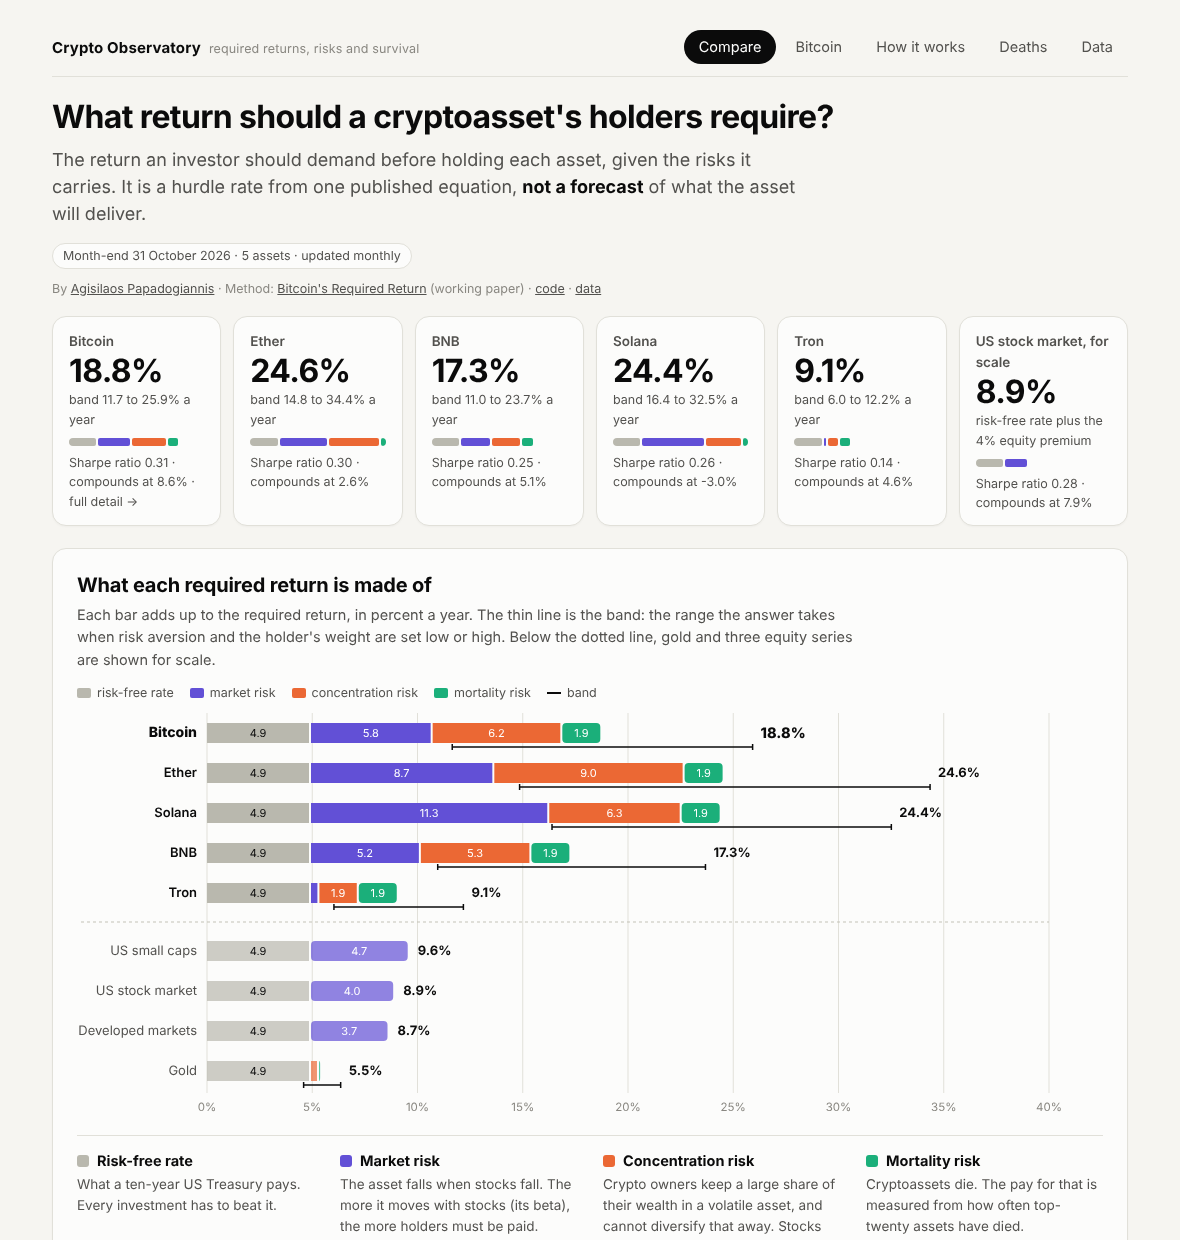
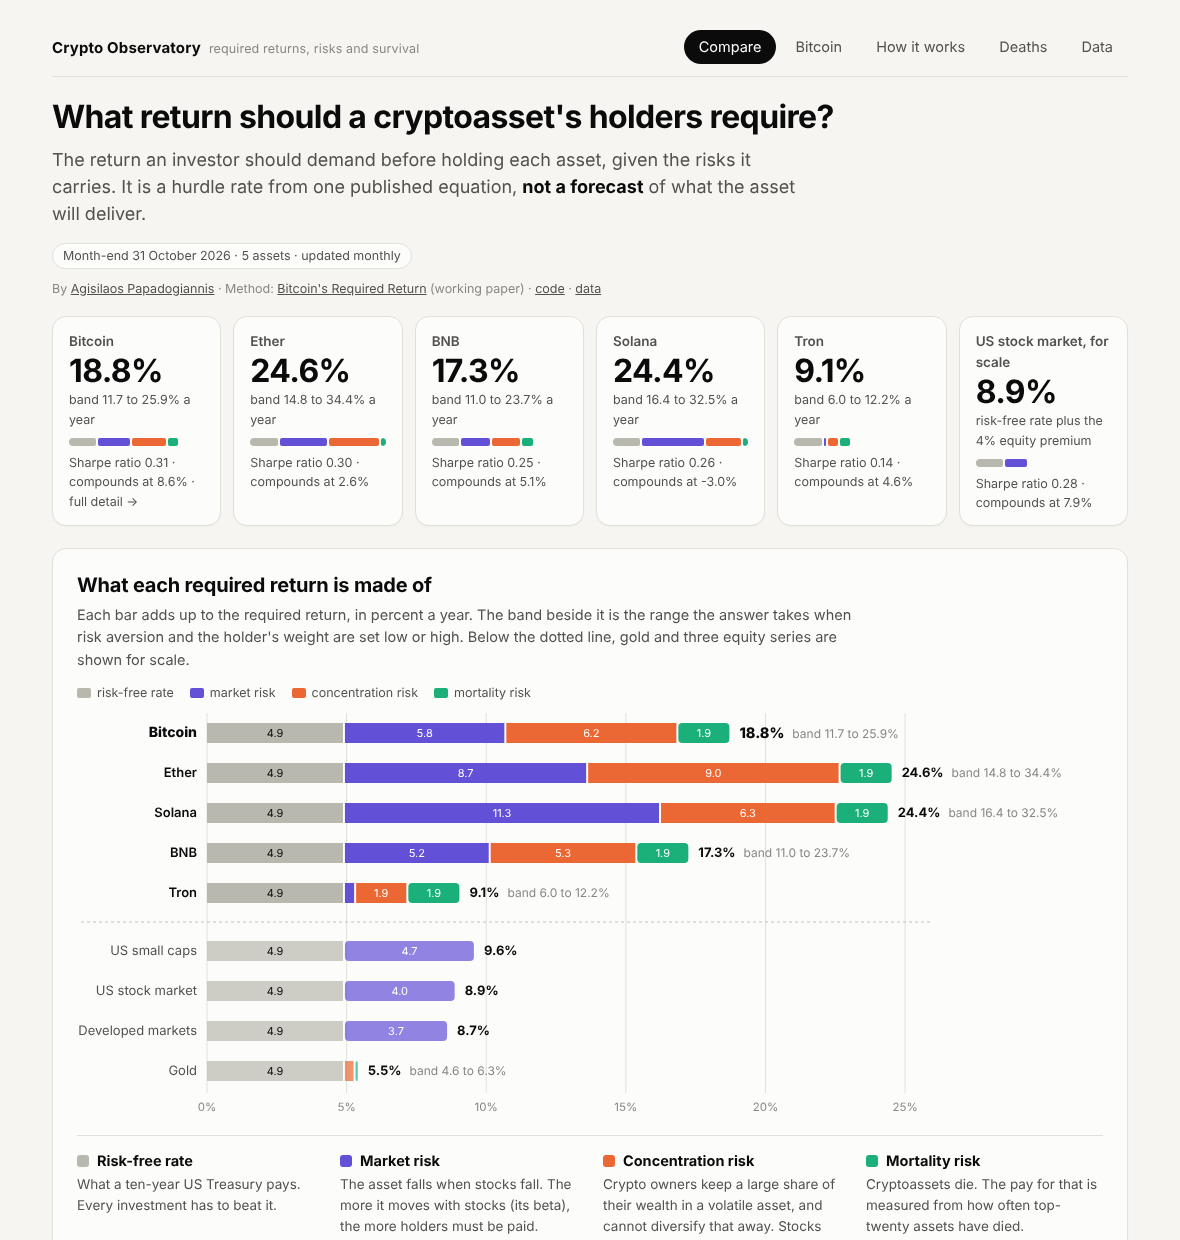
Compare: band written beside each total, no whisker; the history chart moved up

Changed region(s): [[0.2441, 0.5823, 0.8542, 0.8887], [0.061, 0.4903, 0.7322, 0.5516], [0.3966, 0.8581, 0.4271, 0.8887]]

diff --git a/site/template.html b/site/template.html
@@ -229,8 +229,8 @@ window.goatcounter = {path: function () { return location.pathname; }};
 
   <section class="card" id="sec-a-bars">
     <h2>What each required return is made of</h2>
-    <p class="sub">Each bar adds up to the required return, in percent a year. The thin line is the band: the range the answer takes when risk aversion and the holder's weight are set low or high. Below the dotted line, gold and three equity series are shown for scale.</p>
-    <div class="legend"><span><i style="background:var(--rf)"></i>risk-free rate</span><span><i style="background:var(--violet)"></i>market risk</span><span><i style="background:var(--orange)"></i>concentration risk</span><span><i style="background:var(--aqua)"></i>mortality risk</span><span><i class="ln" style="border-color:var(--ink)"></i>band</span></div>
+    <p class="sub">Each bar adds up to the required return, in percent a year. The band beside it is the range the answer takes when risk aversion and the holder's weight are set low or high. Below the dotted line, gold and three equity series are shown for scale.</p>
+    <div class="legend"><span><i style="background:var(--rf)"></i>risk-free rate</span><span><i style="background:var(--violet)"></i>market risk</span><span><i style="background:var(--orange)"></i>concentration risk</span><span><i style="background:var(--aqua)"></i>mortality risk</span></div>
     <div class="chart" id="a-bars"></div>
     <div class="plain">
       <div><b><i style="background:var(--rf)"></i>Risk-free rate</b><span>What a ten-year US Treasury pays. Every investment has to beat it.</span></div>
@@ -238,6 +238,12 @@ window.goatcounter = {path: function () { return location.pathname; }};
       <div><b><i style="background:var(--orange)"></i>Concentration risk</b><span>Crypto owners keep a large share of their wealth in a volatile asset, and cannot diversify that away. Stocks have none of it.</span></div>
       <div><b><i style="background:var(--aqua)"></i>Mortality risk</b><span>Cryptoassets die. The pay for that is measured from how often top-twenty assets have died.</span></div>
     </div>
+  </section>
+
+  <section class="card" id="sec-a-hist">
+    <h2>How the required returns have moved through time</h2>
+    <p class="sub">The midpoint of each asset's band at every month-end since it has been priced, percent a year. A required return falls when the asset becomes less volatile, moves less with stocks, or when more diversified investors hold it.</p>
+    <div class="chart" id="a-hist"></div>
   </section>
 
   <section class="card" id="sec-a-reward">
@@ -256,12 +262,6 @@ window.goatcounter = {path: function () { return location.pathname; }};
     <p class="sub" id="a-table-sub"></p>
     <div class="scroll"><table id="t-assets"></table></div>
     <ul class="note" style="margin-top:12px" id="a-notes"></ul>
-  </section>
-
-  <section class="card" id="sec-a-hist">
-    <h2>How the required returns have moved</h2>
-    <p class="sub">The midpoint of each asset's band at every month-end since it has been priced, percent a year. A required return falls when the asset becomes less volatile, moves less with stocks, or when more diversified investors hold it.</p>
-    <div class="chart" id="a-hist"></div>
   </section>
 
   <section class="card" id="sec-a-read">
@@ -1256,8 +1256,8 @@ function compareView(){
   const crypto=A.map(a=>({n:a.name,t:a.required_return,lo:a.required_low,hi:a.required_high,main:a.asset==="btc",p:parts(a.risk_free,a.market_term,a.concentration_term,a.mortality_term)}));
   const bench=m.cmp.rows.filter(r=>r.name!=="Bitcoin").map(r=>({n:r.name,t:r.average,lo:r.lower,hi:r.upper,ref:1,p:parts(r.terms.risk_free,r.terms.market,r.terms.concentration,r.terms.mortality)})).sort((a,b)=>b.t-a.t);
   const rows=[crypto[0]].concat(crypto.slice(1).sort((a,b)=>b.t-a.t)).concat(bench), nC=crypto.length;
-  const B=el("a-bars"), small=(B.clientWidth||600)<480, rh=small?46:40, gapY=18, f=frame(B,rows.length*rh+34+gapY,{l:small?8:130,r:54,t:6,b:26});
-  const x=d3.scaleLinear().domain([0,Math.max(...rows.map(r=>r.hi||r.t))*1.04]).nice().range([0,f.iw]);
+  const B=el("a-bars"), small=(B.clientWidth||600)<480, rh=small?46:40, gapY=18, f=frame(B,rows.length*rh+34+gapY,{l:small?8:130,r:small?54:170,t:6,b:26});
+  const x=d3.scaleLinear().domain([0,Math.max(...rows.map(r=>r.t))]).nice().range([0,f.iw]);
   const g=f.svg.append("g").attr("transform",`translate(${f.m.l},${f.m.t})`), bh=small?16:20;
   x.ticks(6).forEach(t=>{ g.append("line").attr("x1",x(t)).attr("x2",x(t)).attr("y1",0).attr("y2",f.ih).attr("stroke",css("--line"));
     g.append("text").attr("x",x(t)).attr("y",f.ih+18).attr("text-anchor","middle").attr("font-size",11.5).attr("fill",css("--mut")).text(t+"%"); });
@@ -1268,9 +1268,9 @@ function compareView(){
       g.append("rect").attr("x",x(acc)).attr("y",y0).attr("width",w).attr("height",bh).attr("rx",j===r.p.length-1?4:0).attr("fill",css(c)).attr("opacity",r.ref?.7:1).append("title").text(r.n+": "+n+" "+v.toFixed(1)+" points");
       if(w>34) g.append("text").attr("x",x(acc)+w/2).attr("y",y0+bh/2).attr("dy","0.32em").attr("text-anchor","middle").attr("font-size",11).attr("fill",c==="--rf"?css("--ink"):"#fff").text(v.toFixed(1));
       acc+=v; });
-    if(r.hi!=null){ const yy=y0+bh+4; g.append("line").attr("x1",x(r.lo)).attr("x2",x(r.hi)).attr("y1",yy).attr("y2",yy).attr("stroke",css("--ink")).attr("stroke-width",1.5);
-      [r.lo,r.hi].forEach(v=>g.append("line").attr("x1",x(v)).attr("x2",x(v)).attr("y1",yy-3).attr("y2",yy+3).attr("stroke",css("--ink")).attr("stroke-width",1.5)); }
-    g.append("text").attr("x",x(Math.max(acc,r.hi||0))+8).attr("y",y0+bh/2).attr("dy","0.32em").attr("font-size",r.main?14.5:13).attr("font-weight",r.main?800:700).attr("fill",css("--ink")).text(r.t.toFixed(1)+"%"); });
+    const lab=g.append("text").attr("x",x(acc)+8).attr("y",y0+bh/2).attr("dy","0.32em").attr("font-size",r.main?14.5:13).attr("fill",css("--ink"));
+    lab.append("tspan").attr("font-weight",r.main?800:700).text(r.t.toFixed(1)+"%");
+    if(r.hi!=null&&!small) lab.append("tspan").attr("dx",8).attr("font-size",12).attr("fill",css("--mut")).text("band "+r.lo.toFixed(1)+" to "+r.hi.toFixed(1)+"%"); });
   // table
   const all=A.map(a=>({n:a.name,main:a.asset==="btc",req:a.required_return,vol:a.volatility,sh:a.sharpe_ratio,drag:a.volatility_drag,comp:a.compound_required_return,shc:a.sharpe_ratio_on_compound}))
     .concat(bench.map(b=>m.cmp.rows.find(r=>r.name===b.n)).map(r=>({n:r.name,ref:1,req:r.average,vol:r.volatility,sh:r.sharpe_average,drag:r.drag,comp:r.compound,shc:r.sharpe_compound})));
